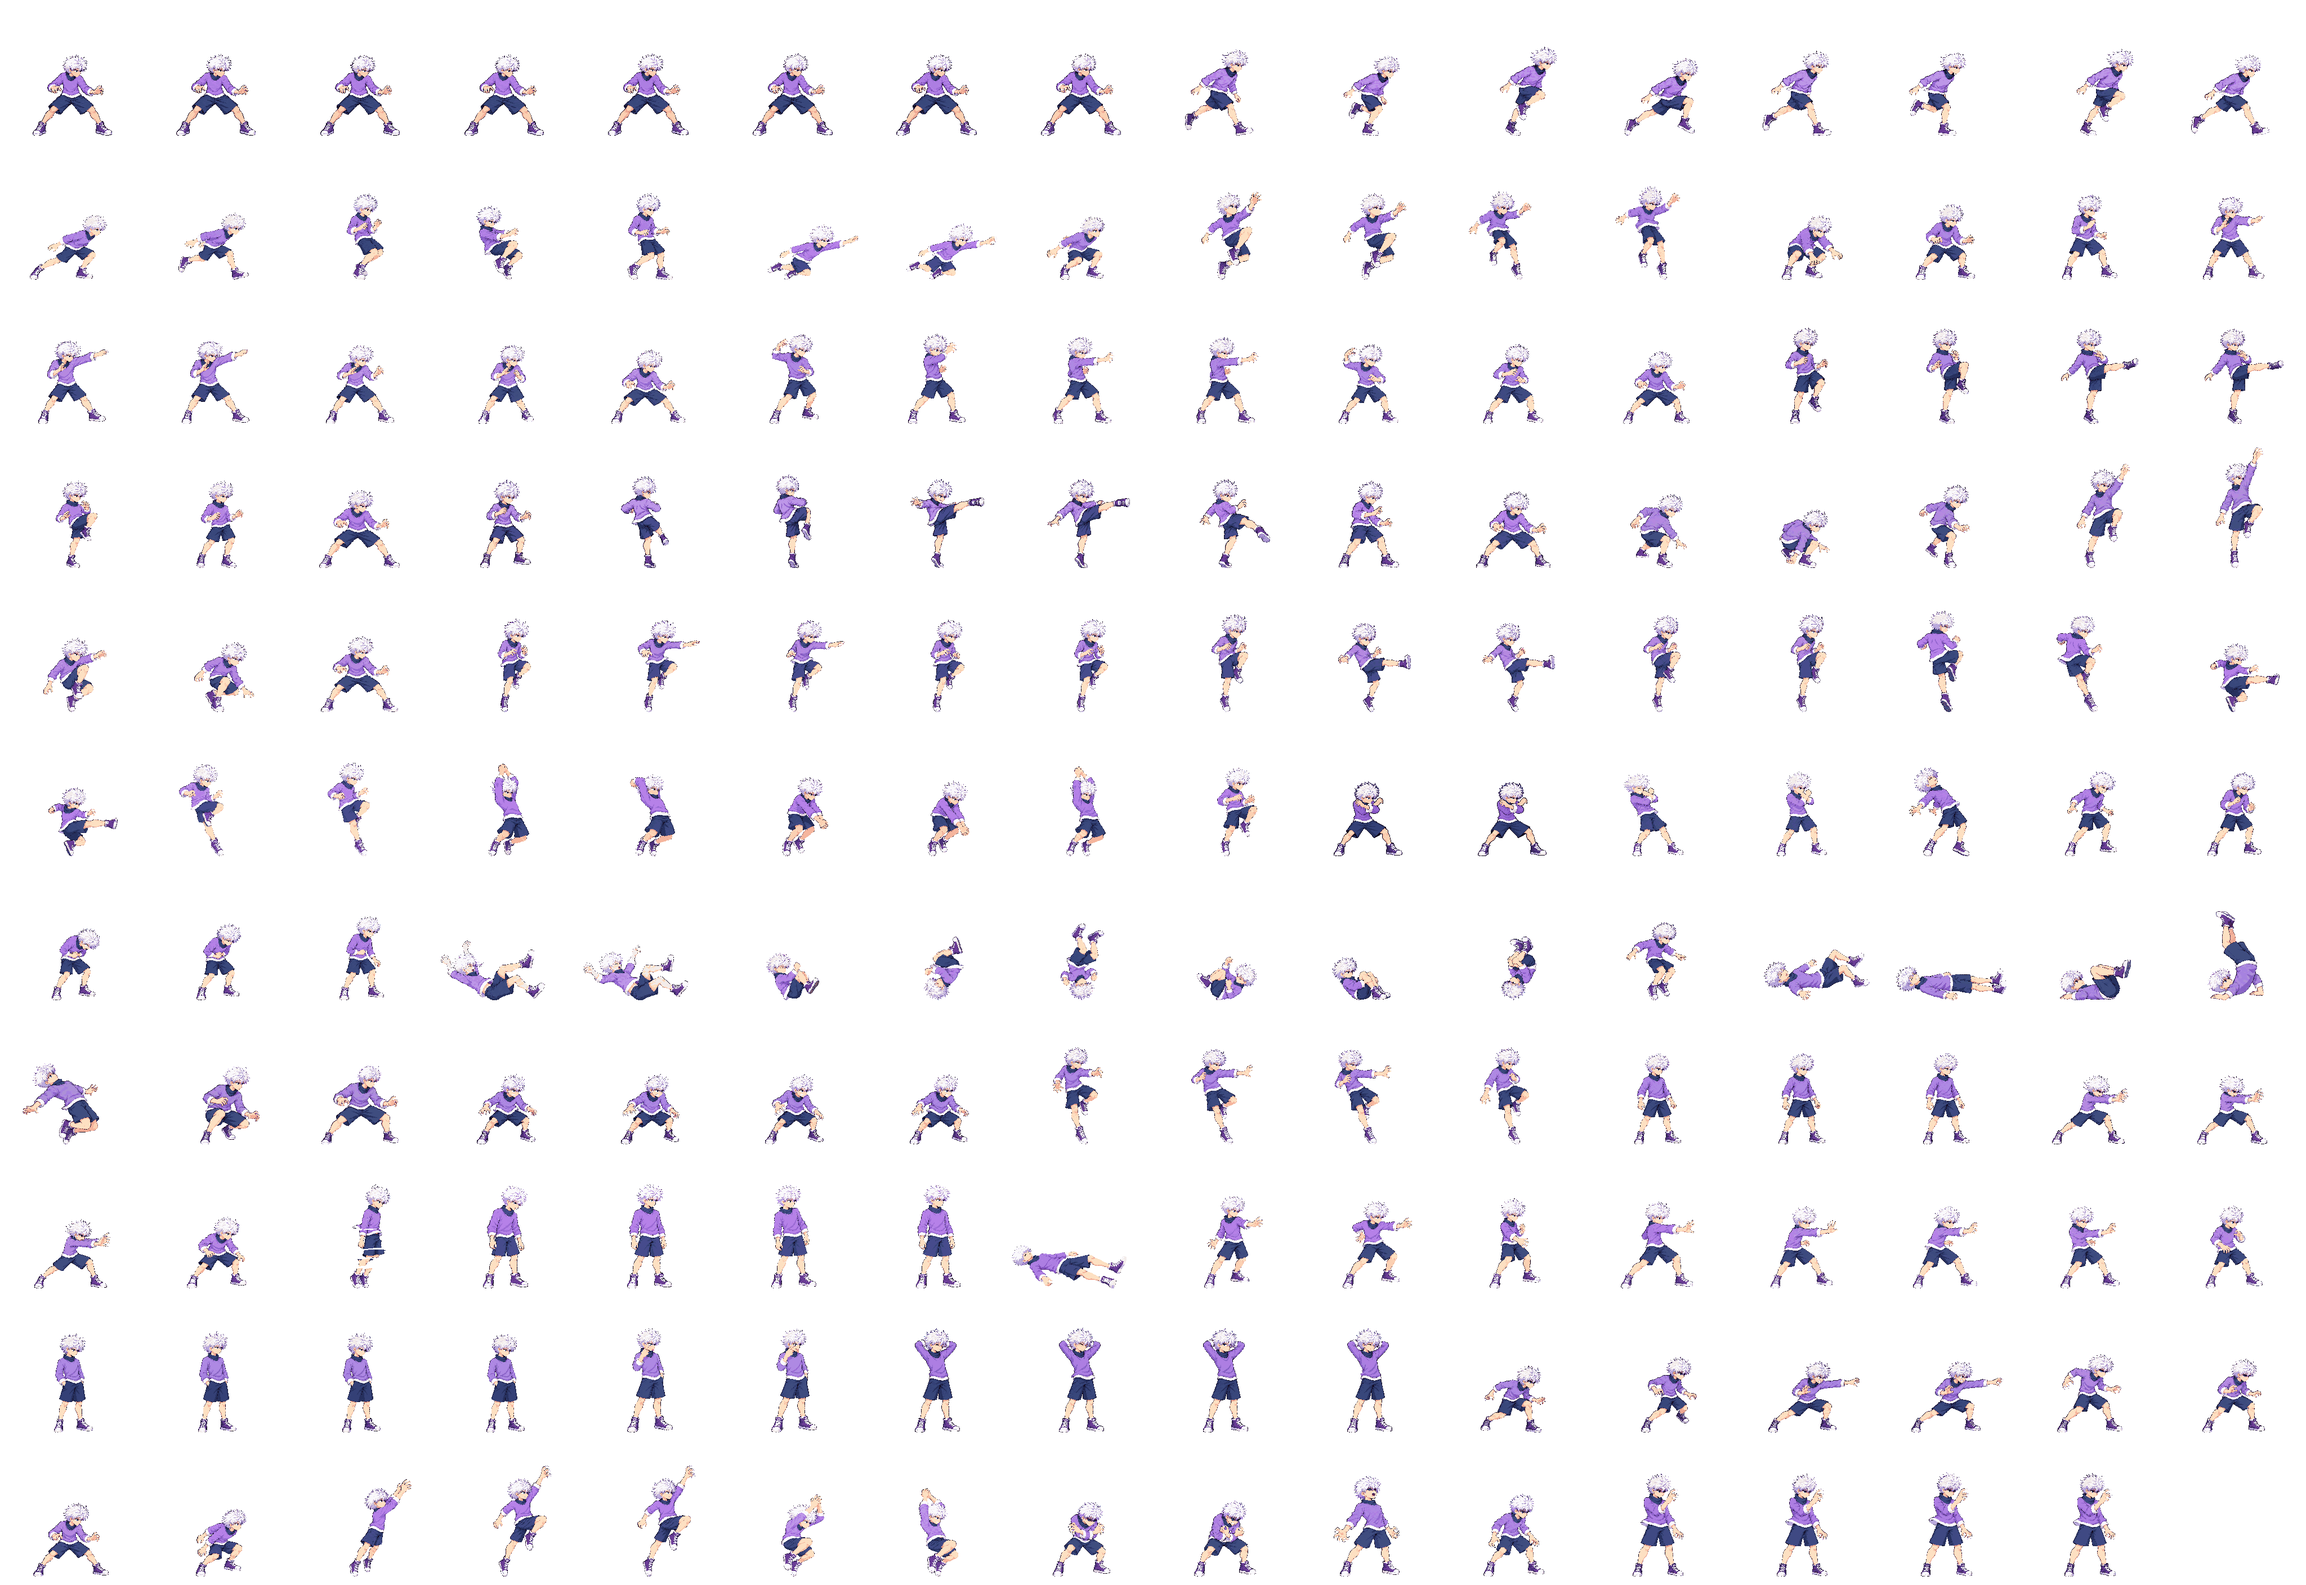
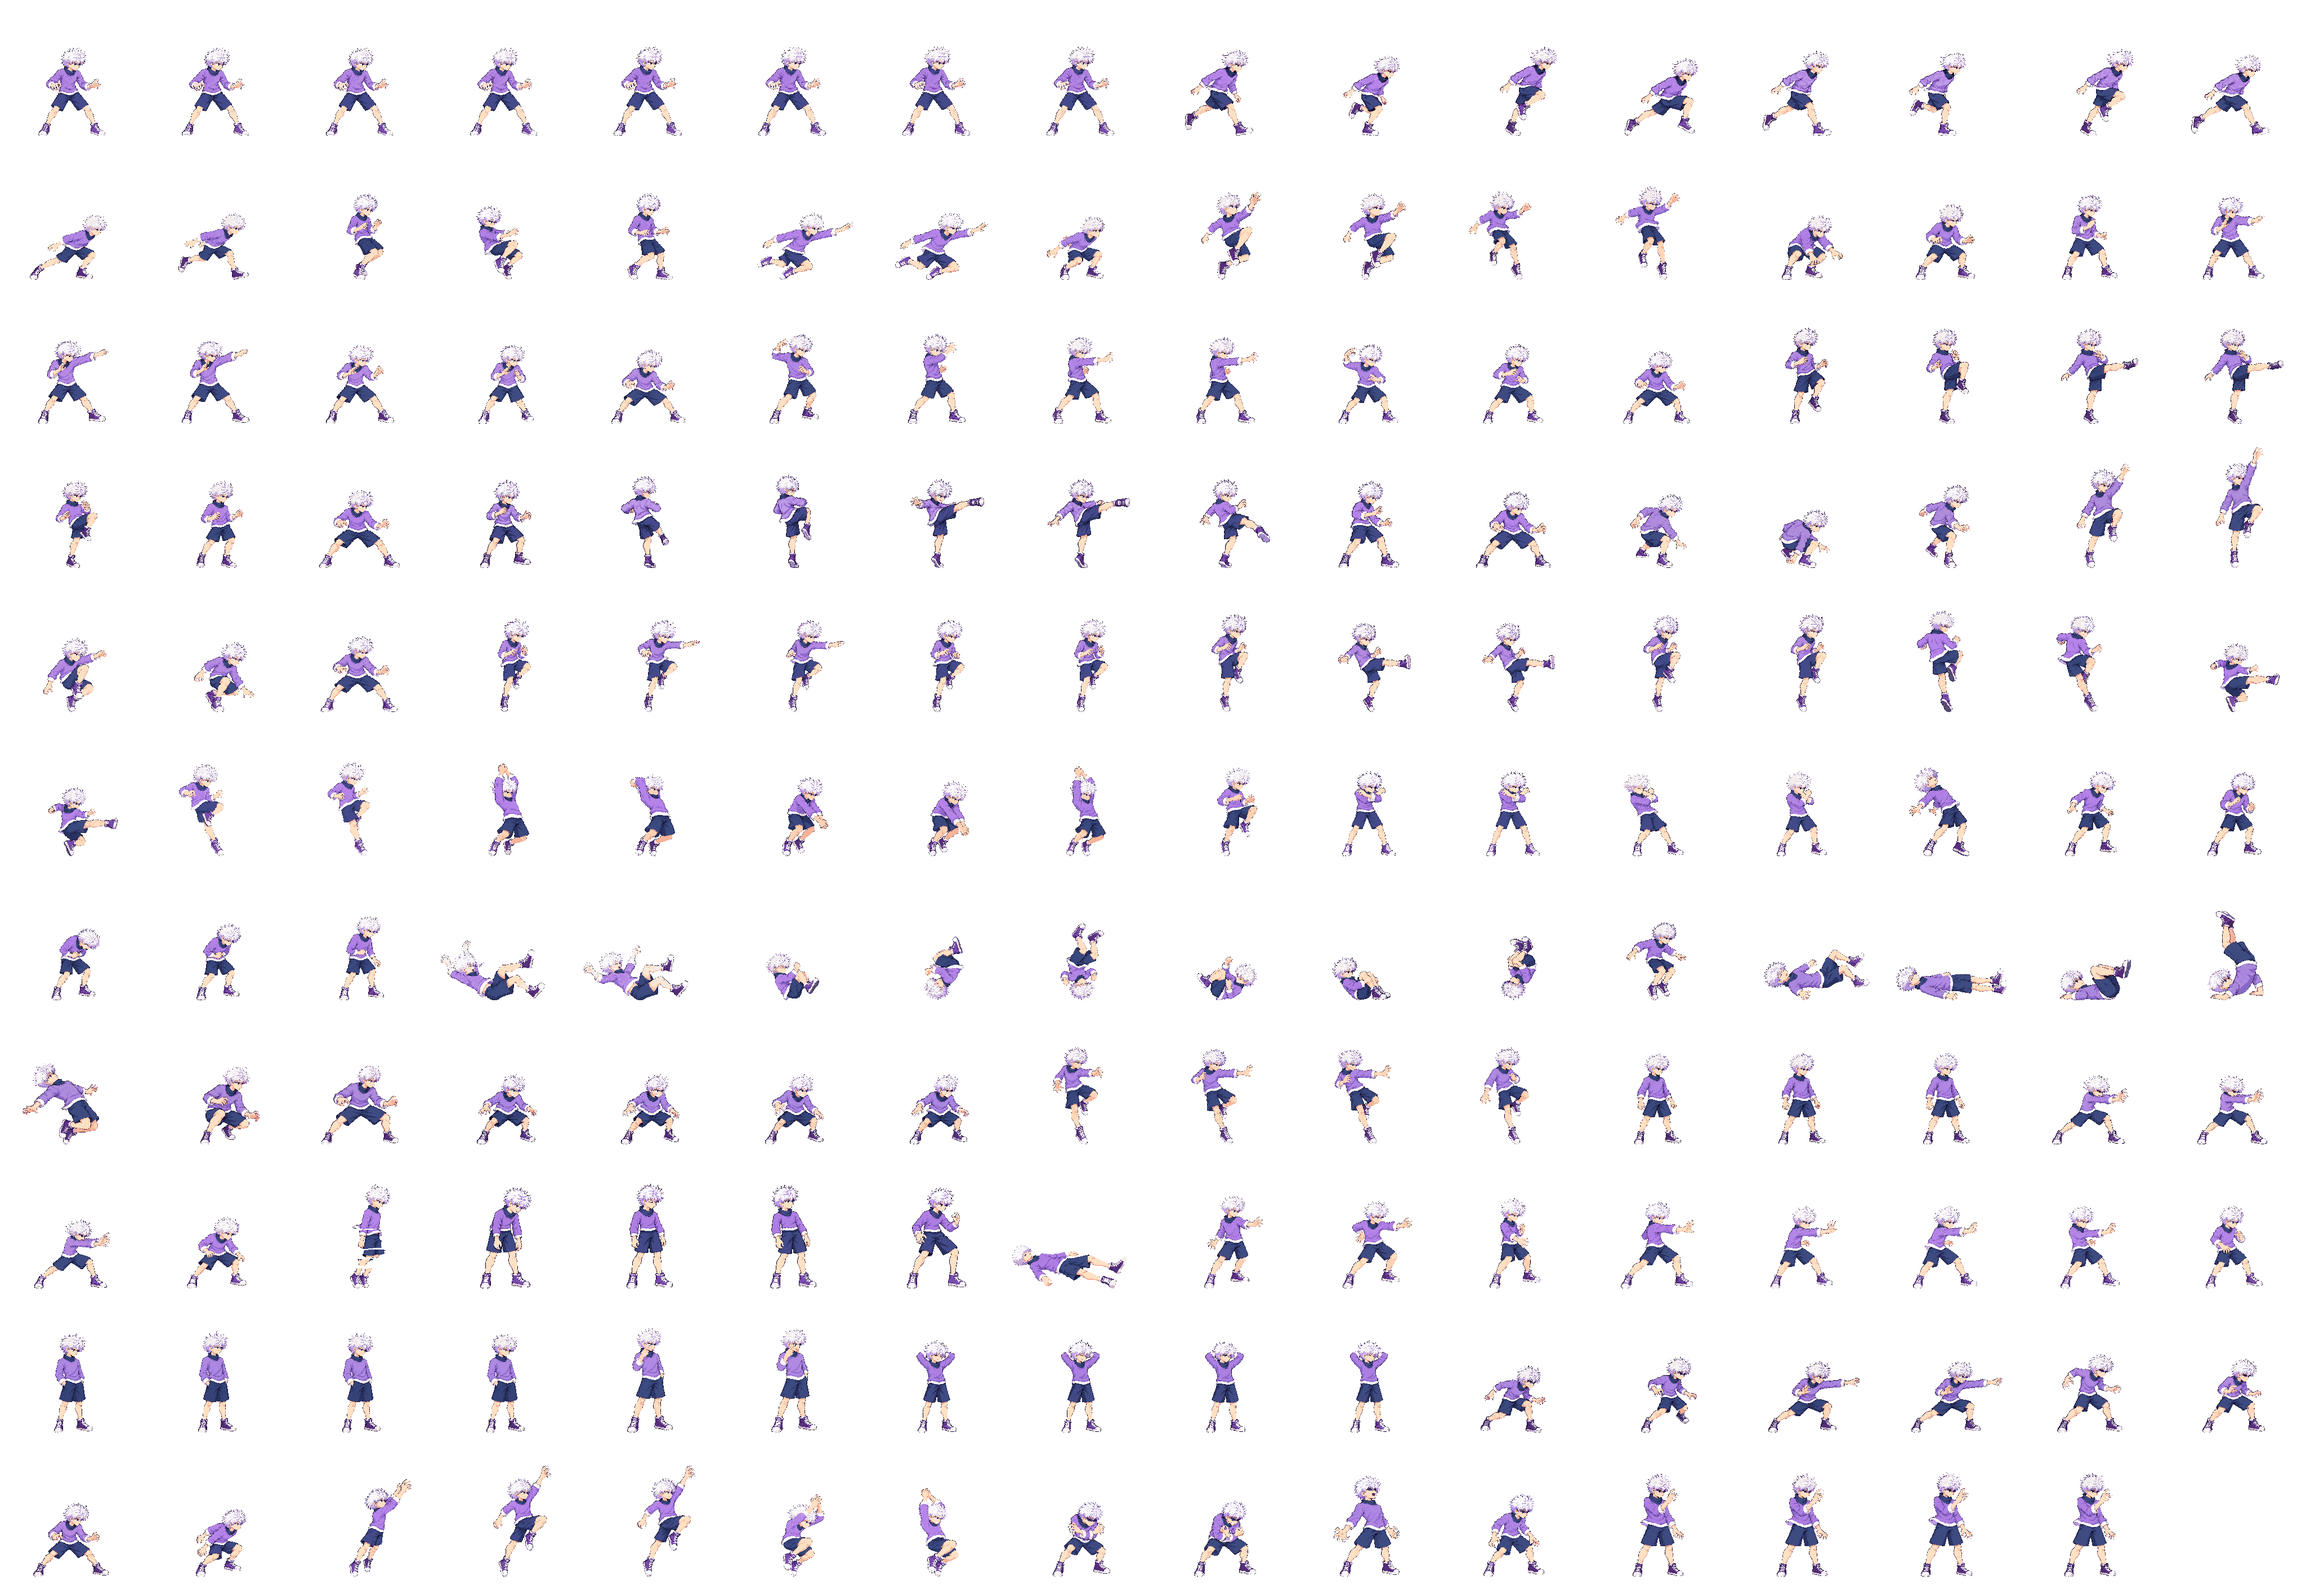
chore(killua): pack the taller idle and guard at their measured sizes; superDash calibrated (round 4)
idle v11 146 -> 158 (156-158 px, target 156-162), guard v09 133 -> 152 (151 px, target
150-158), superDash v08 101 -> 121; heads 1.005-1.038 vs the combat cell. stagger keeps its
motion hold.

diff --git a/art/characters/killua/production/round4/claude-calibration/CALIBRATION.md b/art/characters/killua/production/round4/claude-calibration/CALIBRATION.md
@@ -1,0 +1,31 @@
+# Killua round 4: Claude calibration (2026-10-14)
+
+Requested in `../CLAUDE_RECALIBRATION_20261014.md` (Codex, `a7389a7`). No generation, no budget change, no art approval,
+no merge, no deploy. Gate reference: the approved title-style combat cell (`art/scale/builds.json` scaleReference).
+
+## Why idle and guard landed short: the old crouched bodyHeight, not the drawing
+
+The packer scales a strip so its tallest frame equals its bodyHeight. The taller-stance redraws were still packed at the
+old crouched values (idle 146, guard 133), so they came out 144-146 / 132 px and small everywhere: head probe 0.966 /
+0.904, Codex's visible heads 36-38 / 34 against about 40-41, leg chain 56-58 against 61, shoe 23 against 25. Every rigid
+segment was short by the same factor, so one uniform factor fixes all of them and the occupied height together.
+
+| strip | bodyHeight | factor | packed height (target) | head probe | notes |
+|---|---|---|---|---|---|
+| idle v11 | 146 -> **158** | 1.08 | 156-158 (156-162) | 1.038 (frames 1.015-1.05) | foot span 120 px (target 110-125); head, legs about 61 and shoe about 25 now match the references |
+| guard v09 | 133 -> **152** | 1.14 | 151 (150-158) | 1.036 | replaces the auto head fit (it never engaged: head and feet were not off together) |
+| superDash v08 | 101 -> **121** | 1.20 | 119-120 | 1.005 | replaces the auto head fit; bounds x 54-233, no clipping; leg chain about 53-54, inside Codex's projected 52-53 +-8 |
+| stagger v07 | unchanged | - | - | 1.041 (f0 1.097) | the f2 -> f3 arm/pose reset is a motion HOLD for the user; scale cannot fix it. Shoes still read 29-30 vs 23-25 at this size |
+| win v05 | unchanged (auto head fit x0.8865) | - | - | 1.005 | the stale v04 `scaleManualQA` / exemption warnings are bookkeeping, not a size error |
+
+Sidecars hold the calibration (Codex's `anatomy` kept as `codexAnatomy` where it was replaced). superDash and win have no
+art-box contact (superDash connects by the dash's move data; win is not a combat state), so there is no strike landmark
+to check.
+
+## Atlas
+
+`node tools/pack-sprites.mjs killua --quantize 48` passes. `--strict-scale` fails only on **charge v13** (head 0.92), the
+recorded round-3 stand-in live in production, untouched here. `public/characters/killua/sheet.png` sha256
[2 lines of base64/hex data omitted]
+combat, idle f0/f4, guard f0, superDash f0 on one floor line), `body-killua-*.png` + `body-report.json`.
